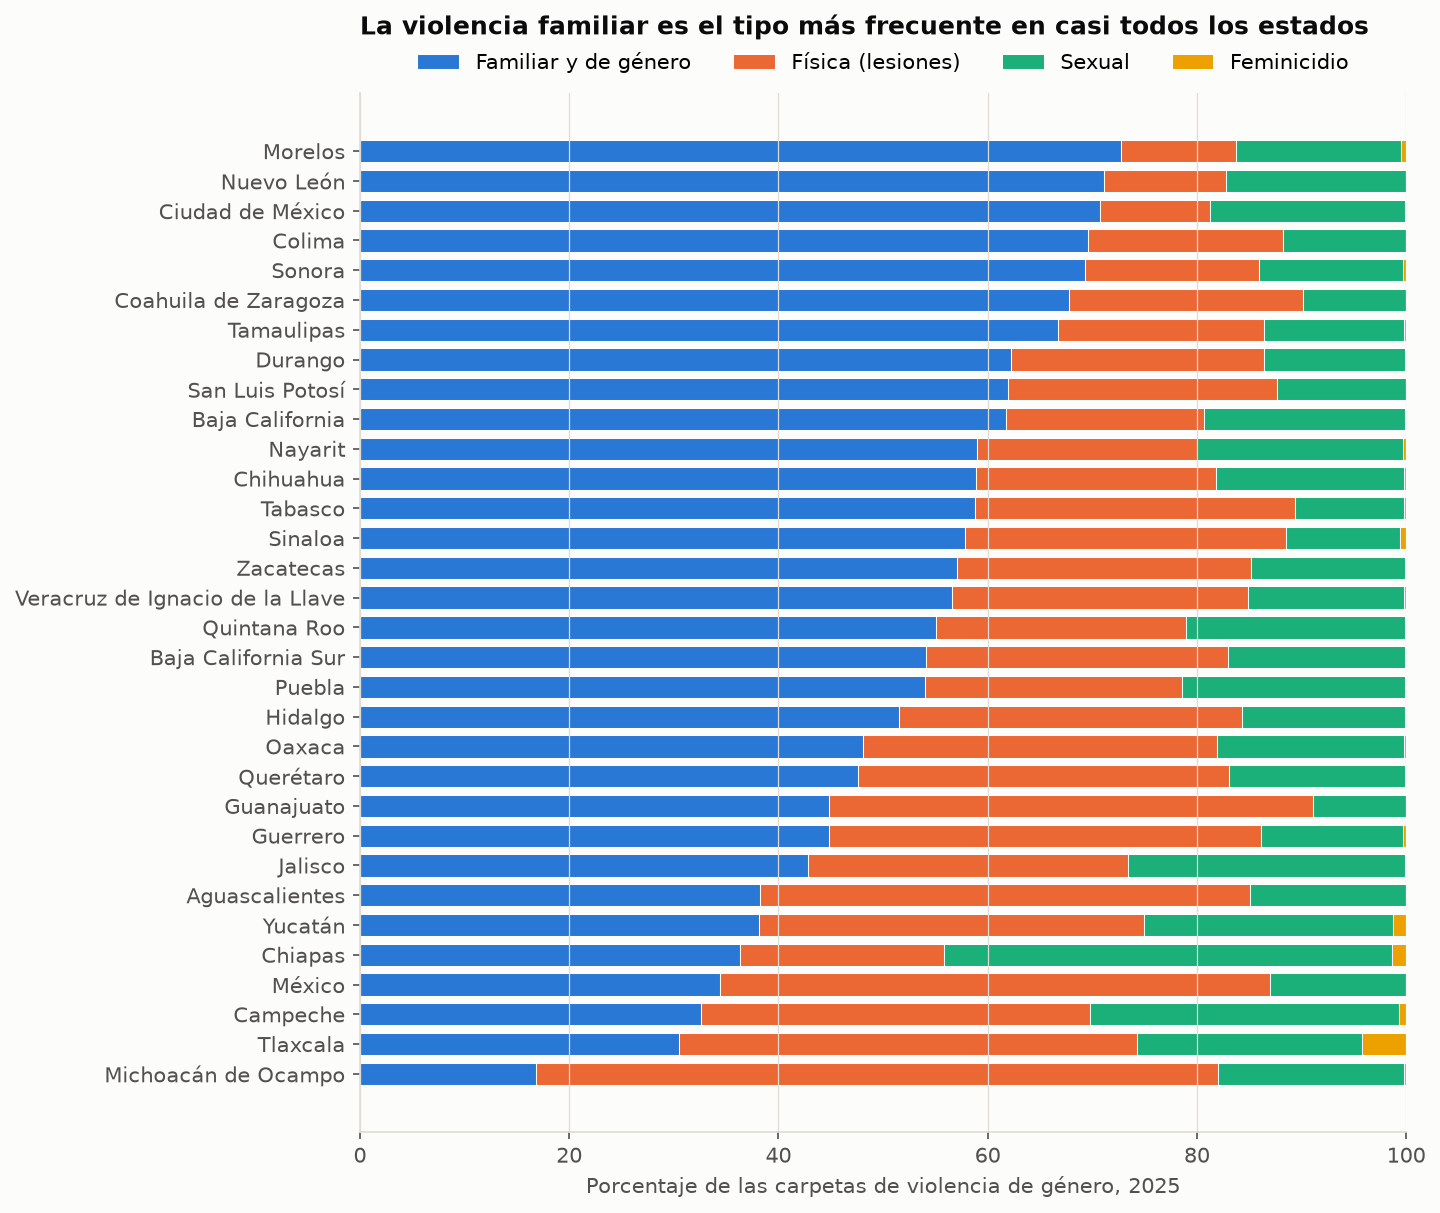
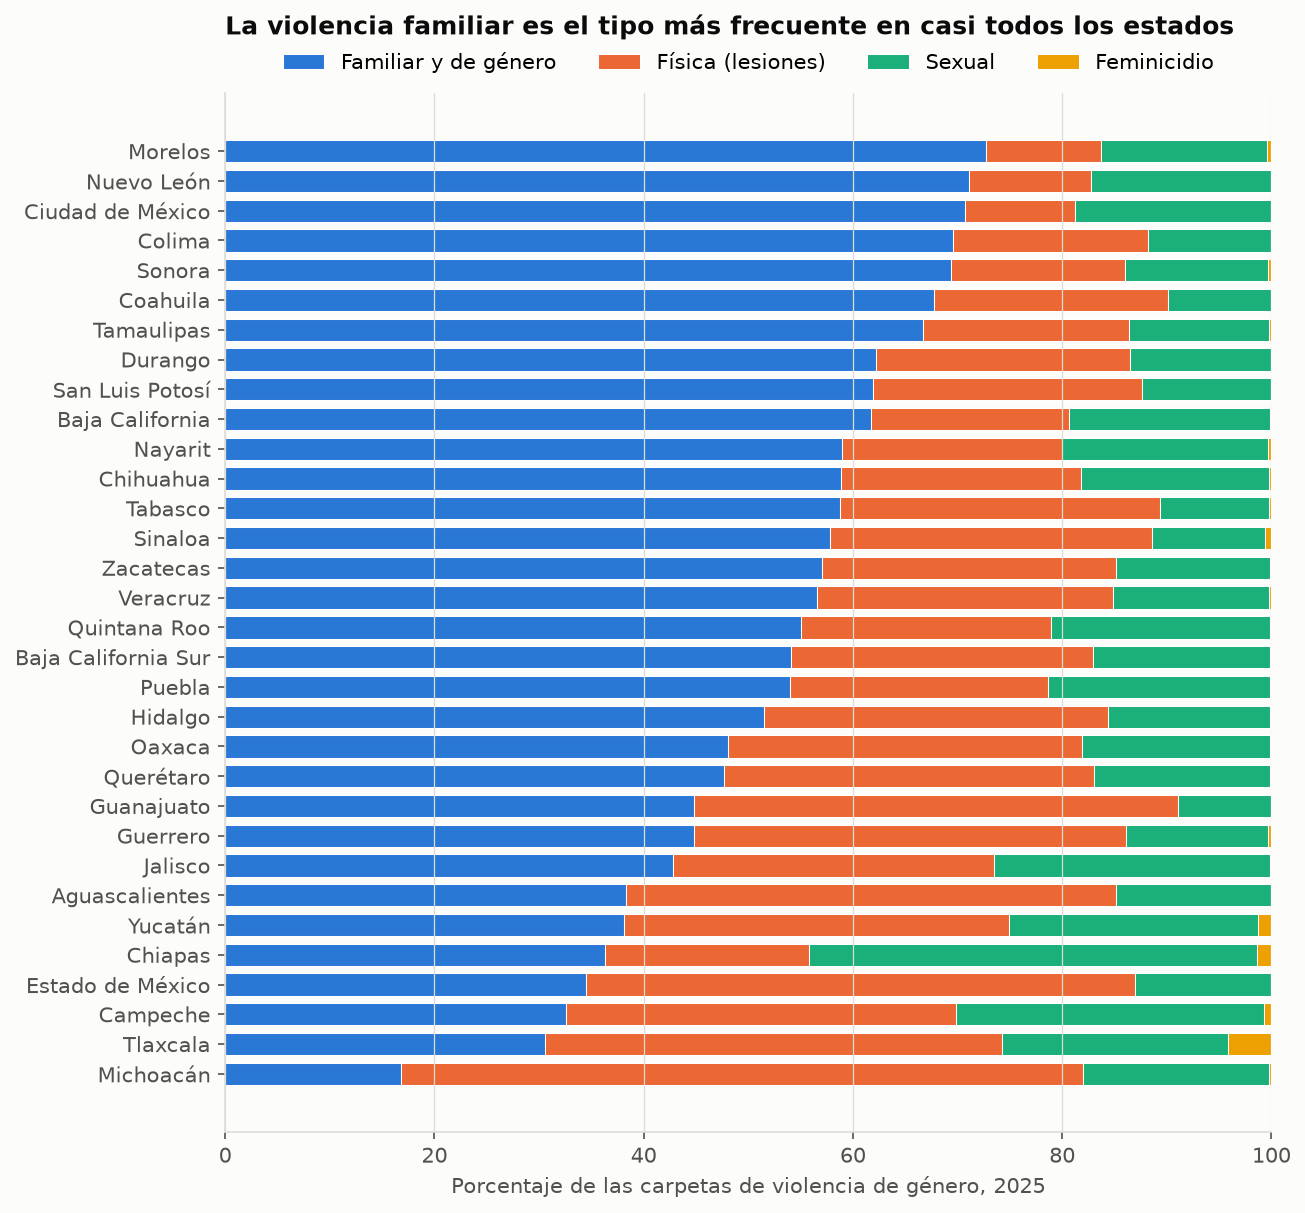
feat(pipeline): usa los nombres oficiales de las 32 entidades y arma las entidades del EDA desde staging

diff --git a/pipeline/src/eda/descriptiva.py b/pipeline/src/eda/descriptiva.py
@@ -23,10 +23,12 @@ import re  # noqa: E402
 from matplotlib.collections import PolyCollection  # noqa: E402
 
 from config.parametros import REGIONES_BANXICO  # noqa: E402
-from config.rutas import RUTA_LIMPIO_ENTIDADES, RUTA_TABLAS_EDA  # noqa: E402
+from config.rutas import RUTA_TABLAS_EDA  # noqa: E402
+from src.cleaning.limpieza import limpiar_entidades  # noqa: E402
 from src.eda import vistas  # noqa: E402
 from src.eda.estilo import COLORES, REFERENCIA, aplicar_estilo, estilo_serie, guardar  # noqa: E402
 from src.eda.medidas import descomposicion_anova, indices_categoricos, resumen_numerico  # noqa: E402
+from src.ingestion.entidades import construir_catalogo  # noqa: E402
 from src.registro import seccion  # noqa: E402
 
 pl.Config.set_tbl_rows(40)
@@ -309,6 +311,18 @@ def figura_canciones_por_anio() -> None:
     guardar(fig, "descriptiva_canciones_por_anio")
 
 
+def entidades() -> pl.DataFrame:
+    """Arma las 32 entidades con su nombre oficial y su geometría desde staging.
+
+    El EDA corre antes de la limpieza, así que no puede leer la tabla limpia
+    de entidades; usa la misma función que la limpieza, sin guardar nada.
+
+    Returns:
+        pl.DataFrame: columnas `cve_ent`, `entidad`, `iso_3166_2` y `geometry_wkt`.
+    """
+    return limpiar_entidades([], construir_catalogo())
+
+
 def anillos_wkt(wkt: str) -> list[np.ndarray]:
     """Extrae los contornos exteriores de un POLYGON o MULTIPOLYGON en texto WKT.
 
@@ -333,11 +347,11 @@ def figura_mapa_tasas() -> None:
     Se usan tasas por 100 mil mujeres y no conteos, porque un mapa de conteos
     mostraría dónde vive más gente y no dónde es más frecuente la violencia.
     """
-    entidades = pl.read_parquet(RUTA_LIMPIO_ENTIDADES).select("cve_ent", "geometry_wkt")
+    geometrias = entidades().select("cve_ent", "geometry_wkt")
     tasas = vistas.tasas_entidad_anio().filter(pl.col("anio") == ANIO_RECIENTE)
     fig, ejes = plt.subplots(1, 2, figsize=(13, 4.6), layout="constrained")
     for ax, tipo in zip(ejes, ["sin distinguir", "sexual"]):
-        datos = entidades.join(tasas.filter(pl.col("tipo_lgamvlv") == tipo).select("cve_ent", "tasa_carpetas"), on="cve_ent")
+        datos = geometrias.join(tasas.filter(pl.col("tipo_lgamvlv") == tipo).select("cve_ent", "tasa_carpetas"), on="cve_ent")
         poligonos, valores = [], []
         for wkt, valor in datos.select("geometry_wkt", "tasa_carpetas").iter_rows():
             for anillo in anillos_wkt(wkt):
@@ -360,7 +374,7 @@ def figura_mapa_tasas() -> None:
 
 def figura_tipos_por_entidad() -> None:
     """Barras apiladas al 100 % de la mezcla de tipos de violencia en cada entidad (año reciente)."""
-    nombres = pl.read_parquet(RUTA_LIMPIO_ENTIDADES).select("cve_ent", "entidad")
+    nombres = entidades().select("cve_ent", "entidad")
     mezcla = (
         vistas.tasas_entidad_anio().filter(pl.col("anio") == ANIO_RECIENTE)
         .with_columns((pl.col("carpetas") / pl.col("carpetas").sum().over("cve_ent") * 100).alias("pct"))

diff --git a/pipeline/src/ingestion/entidades.py b/pipeline/src/ingestion/entidades.py
@@ -11,7 +11,7 @@ import polars as pl
 
 sys.path.append(str(Path(__file__).resolve().parent.parent.parent))
 
-from config.parametros import EQUIVALENCIAS_ENTIDAD, NOMBRES_NACIONALES  # noqa: E402
+from config.parametros import EQUIVALENCIAS_ENTIDAD, NOMBRES_ENTIDAD, NOMBRES_NACIONALES  # noqa: E402
 from config.rutas import ruta_raw  # noqa: E402
 
 
@@ -38,9 +38,13 @@ def construir_catalogo() -> pl.DataFrame:
     config.yaml y los nombres que usan las fuentes para el total del país,
     que reciben la clave 0.
 
+    El nombre que se muestra (`entidad`) es el oficial de `nombres_entidad`
+    en config.yaml, no el del SESNSP (que usa, por ejemplo, "Coahuila de
+    Zaragoza" o "México").
+
     Returns:
         pl.DataFrame: columnas `nombre` (str, normalizado), `cve_ent` (int) y
-            `entidad` (str, nombre oficial del SESNSP).
+            `entidad` (str, nombre oficial).
     """
     sesnsp = (
         pl.read_parquet(ruta_raw("stg_sesnsp_delitos"), columns=["clave_ent", "entidad"])
@@ -59,7 +63,15 @@ def construir_catalogo() -> pl.DataFrame:
     nacionales = pl.DataFrame(
         {"nombre": NOMBRES_NACIONALES, "cve_ent": [0] * len(NOMBRES_NACIONALES), "entidad": ["Nacional"] * len(NOMBRES_NACIONALES)}
     )
-    catalogo = pl.concat([sesnsp, variantes, nacionales]).sort("cve_ent", "nombre")
+    oficiales = pl.DataFrame({"cve_ent": [int(c) for c in NOMBRES_ENTIDAD], "oficial": list(NOMBRES_ENTIDAD.values())})
+    assert oficiales.height == 32, "config.yaml debe traer el nombre oficial de las 32 entidades"
+    catalogo = (
+        pl.concat([sesnsp, variantes, nacionales])
+        .join(oficiales, on="cve_ent", how="left")
+        .with_columns(pl.coalesce("oficial", "entidad").alias("entidad"))
+        .drop("oficial")
+        .sort("cve_ent", "nombre")
+    )
     assert catalogo["nombre"].is_unique().all(), "un mismo nombre quedó con dos claves"
     assert sesnsp.height == 32, f"el SESNSP debería tener 32 entidades y tiene {sesnsp.height}"
     return catalogo

diff --git a/pipeline/config/parametros.py b/pipeline/config/parametros.py
@@ -35,6 +35,7 @@ VENTANA_FIN = PARAMETROS["ventana"]["fin"]
 
 EQUIVALENCIAS_ENTIDAD = PARAMETROS["equivalencias_entidad"]
 NOMBRES_NACIONALES = PARAMETROS["nombres_nacionales"]
+NOMBRES_ENTIDAD = PARAMETROS["nombres_entidad"]
 MAPEO_LGAMVLV = PARAMETROS["mapeo_lgamvlv"]
 DELITO_IMPUNIDAD = PARAMETROS["delito_impunidad"]
 MACROGENEROS = PARAMETROS["macrogeneros"]
